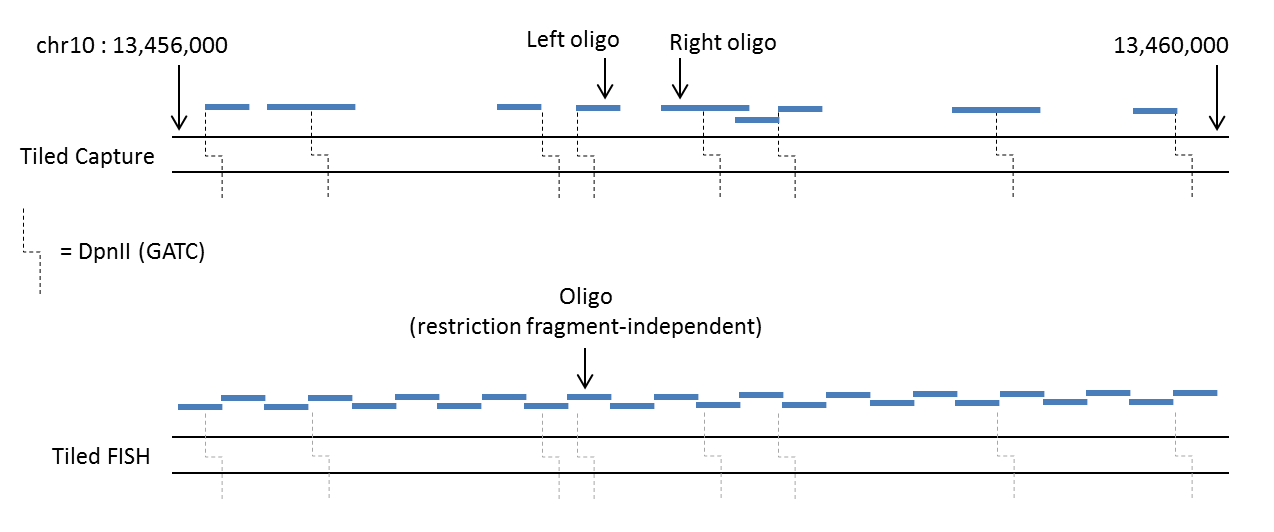
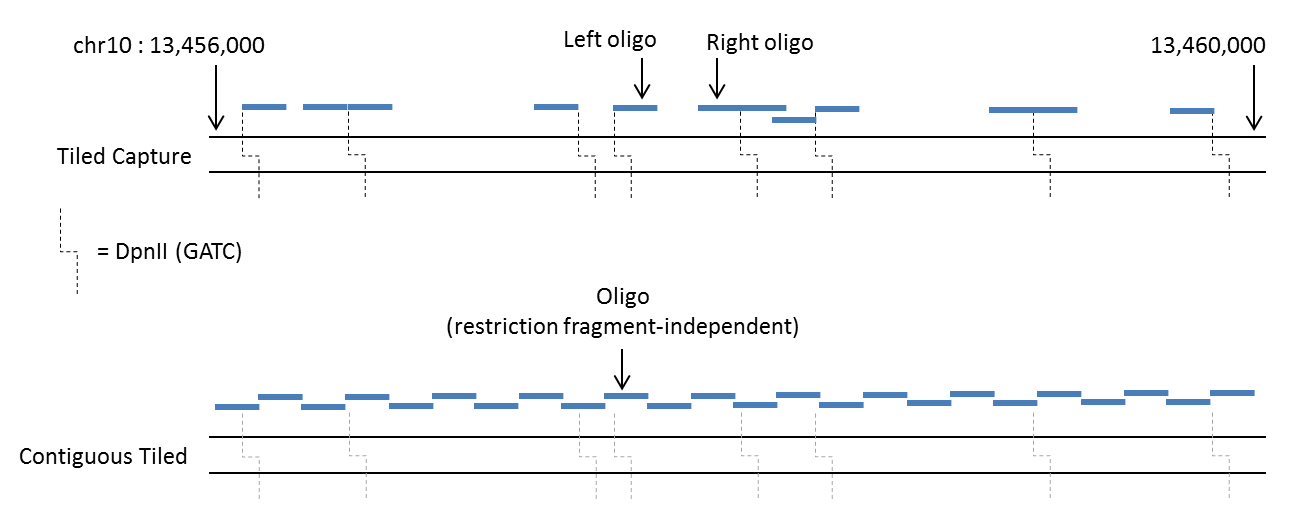
renamed FISH option to Contig

diff --git a/design.py b/design.py
@@ -463,7 +463,7 @@ class Tiled(Tools):
         
         return self
     
-    def gen_oligos_fish(self, chrom, region='', step=70, oligo=70):
+    def gen_oligos_contig(self, chrom, region='', step=70, oligo=70):
         """Designs adjacent oligos based on a user-defined step size,
         across a specified region of a chromosome, or for the entire
         chromosome.
@@ -615,7 +615,7 @@ if __name__ == '__main__':
                                 ', '.join(class_tup)
                             ))
     except IndexError:
-        raise IndexError('oligo.py must be followed by one of the following '
+        raise IndexError('design.py must be followed by one of the following '
                          'class names: {}'.format(', '.join(class_tup)))
     parser = argparse.ArgumentParser()
     
@@ -670,9 +670,9 @@ if __name__ == '__main__':
             required = False,
         )
         parser.add_argument(
-            '--fish',
+            '--contig',
             action = 'store_true',
-            help = 'Run in FISH mode (restriciton enzyme independent).',
+            help = 'Run in contiguous mode (restriciton enzyme independent).',
             required = False,
         )
         parser.add_argument(
@@ -681,7 +681,7 @@ if __name__ == '__main__':
             type = str,
             choices = ['DpnII', 'NlaIII', 'HindIII'],
             help = 'Name of restriction enzyme, default=DpnII. Omit this ' \
-                   'option if running in FISH mode (--fish)',
+                   'option if running in contiguous mode (--contig)',
             default = 'DpnII',
             required = False,
         )
@@ -690,8 +690,8 @@ if __name__ == '__main__':
             '--step_size',
             type = int,
             help = 'Step size (in bp) between adjacent oligos when running ' \
-                   'in FISH mode (--fish), default=70. Omit this option if ' \
-                   'you are not using the --fish flag',
+                   'in contiguous mode (--contig), default=70. Omit this option if ' \
+                   'you are not using the --contig flag',
             default = 70,
             required = False,
         )
@@ -765,8 +765,8 @@ if __name__ == '__main__':
         )
     elif class_arg == 'Tiled':
         c = Tiled(genome=args.genome, fa=args.fasta, blat=args.blat)
-        if args.fish:
-            c.gen_oligos_fish(
+        if args.contig:
+            c.gen_oligos_contig(
                 chrom = args.chr,
                 region = args.region,
                 step = args.step_size,

diff --git a/docs/tiled.rst b/docs/tiled.rst
@@ -9,16 +9,16 @@ Tiled Capture
 Description
 ===========
 
-The image below shows a schematic of how `Tiled` designs oligos when run in either the default mode (top) or FISH mode (bottom). In the top panel the user has run `Tiled` supplying the region chr10:13456000-13460000 and the restriction enzyme
-DpnII. In the bottom panel the same coordinates have been used but with the :option:`--fish` flag, and the step size set to equal the oligo length, thereby generating end-to-end oligos. For Tiled FISH, the design is completely independent of
+The image below shows a schematic of how `Tiled` designs oligos when run in either the default mode (top) or contiguous mode (bottom). In the top panel the user has run `Tiled` supplying the region chr10:13456000-13460000 and the restriction enzyme
+DpnII. In the bottom panel the same coordinates have been used but with the :option:`--contig` flag, and the step size set to equal the oligo length, thereby generating end-to-end oligos. For contiguous Tiled, the design is completely independent of
 any restriction enzyme recognition sequences, however the DpnII sites have been left on the image for consistency.
 
 .. figure:: _static/tiled.png
 
-    Schematic of oligo design by `Tiled`, in default (top) and FISH (bottom) modes
+    Schematic of oligo design by `Tiled`, in default (top) and contiguous (bottom) modes
     
 It is possible for the Tiled Capture oligos to overlap, up to within 1bp of each other, when the restriction fragment is less than twice the length of the oligo. If the specified region consists of a fragment with length less than the specified oligo length, no oligos will be generated for that fragment.
-If the fragment length exactly equals the oligo length, only one oligo will be generated. Similarly, in Tiled FISH, oligos can be designed such that they overlap up to within 1bp of each other; in this case, the step size would be set to 1.
+If the fragment length exactly equals the oligo length, only one oligo will be generated. Similarly, in contiguous Tiled, oligos can be designed such that they overlap up to within 1bp of each other; in this case, the step size would be set to 1.
 
 .. note::
     
@@ -33,9 +33,9 @@ When run from the command line, `design.py Tiled` takes the following parameters
     
     (flag) Show this help message and exit
     
-.. option:: --fish
+.. option:: --contig
 
-    (flag) Run the pipeline in :ref:`FISH mode <fish>`
+    (flag) Run the pipeline in :ref:`contiguous mode <contig>`
     
 .. option:: -f <reference fasta>, --fasta <reference fasta>
     
@@ -59,7 +59,7 @@ When run from the command line, `design.py Tiled` takes the following parameters
 .. option:: -e <enzyme>, --enzyme <enzyme>
 
     ({DpnII, NlaIII, HindIII}, optional) Name of the :ref:`restriction enzyme <enzyme>` to be used
-    for fragment digestion, default=DpnII; omit this option if running in FISH mode (:option:`--fish`)
+    for fragment digestion, default=DpnII; omit this option if running in contiguous mode (:option:`--contig`)
     
 .. option:: -o <oligo length>, --oligo <oligo length>
 
@@ -68,8 +68,8 @@ When run from the command line, `design.py Tiled` takes the following parameters
 .. option:: -t <step size>, --step_size <step size>
 
     (int, optional) The number of base-pairs between the start coordinates of adjacent oligos (:ref:`see below <step>`), when running in
-    FISH mode (:option:`--fish`), default=70; omit this option if you are not using
-    the :option:`--fish` flag
+    contiguous mode (:option:`--contig`), default=70; omit this option if you are not using
+    the :option:`--contig` flag
     
 .. option:: -s <STAR index>, --star_index <STAR index>
 
@@ -92,21 +92,21 @@ Below are examples using the `Tiled` pipeline for different scenarios
 .. code-block:: bash
     :caption: 50bp oligos across the region 10,150,000 to 10,200,000 on chromosome X of mm9, with adjacent oligos separated by a gap of 10bp, using BLAT to check off-target binding
 
-    $ python design.py Tiled --fish -f ~/mm9/Sequence/genome.fa -g mm9 -c X -r 10150000-10200000 -o 50 -t 60 --blat
+    $ python design.py Tiled --contig -f ~/mm9/Sequence/genome.fa -g mm9 -c X -r 10150000-10200000 -o 50 -t 60 --blat
     
 Specifics
 ---------
 
-.. _fish:
+.. _contig:
 
-**FISH** (:option:`--fish`)
-    Running the pipeline in FISH mode no longer restricts oligo design to Capture-C specification and hence the oligos are designed independently of any restriction fragment or recognition sequence. Instead, the user defines a :ref:`step size <step>` (:option:`-t`, :option:`--step_size`)
+**Contiguous mode** (:option:`--contig`)
+    Running the pipeline in contiguous mode no longer restricts oligo design to Capture-C specification and hence the oligos are designed independently of any restriction fragment or recognition sequence. Instead, the user defines a :ref:`step size <step>` (:option:`-t`, :option:`--step_size`)
     to design oligos within close proximity to each other, across a specified region (:option:`-r`, :option:`--region`) or entire chromosome
    
 .. _enzyme:
 
 **Restriction enzyme** (:option:`-e`, :option:`--enzyme`)
-    The restriction enzyme being used in the Tiled Capture experiment (if not running in FISH mode). This determines the recogition sequence used to define the fragment boundaries and hence the starts and ends of the oligos. The current version supports `DpnII` (GATC), `NlaIII` (CATG) and `HindIII` (AAGCTT).
+    The restriction enzyme being used in the Tiled Capture experiment (if not running in contiguous mode). This determines the recogition sequence used to define the fragment boundaries and hence the starts and ends of the oligos. The current version supports `DpnII` (GATC), `NlaIII` (CATG) and `HindIII` (AAGCTT).
     If this option is omitted, `DpnII` will be used by default.
     
 .. _step:

diff --git a/README.rst b/README.rst
@@ -1,10 +1,10 @@
 Capture Oligo Design
 ====================
 
-The *design.py* module consists of three classes for Capture-C and FISH oligo design.
+The *design.py* module consists of three classes for Capture-C oligo design.
 
 * `Capture <http://oligo.rtfd.io/en/latest/capture.html>`_: designs oligos for a standard Capture-C experiment. The user supplies a list of viewpoint coordinates, and oligos are generated adjacent to the flanking recognition sequence of a specified restriction enzyme.
-* `Tiled <http://oligo.rtfd.io/en/latest/tiled.html>`_: designs oligos for multiple adjacent restriction fragments across a specified region of a chromosome, or for the entire chromosome. If *Tiled* is run in FISH mode, oligos are generated independent of restriction fragments and
+* `Tiled <http://oligo.rtfd.io/en/latest/tiled.html>`_: designs oligos for multiple adjacent restriction fragments across a specified region of a chromosome, or for the entire chromosome. If *Tiled* is run in contiguous mode, oligos are generated independent of restriction fragments and
   are instead generated for a user-specified step size, in an adjacent manner.
 * `OffTarget <http://oligo.rtfd.io/en/latest/off_target.html>`_: designs oligos to capture DNA surrounding potential CRISPR off-target cut sites to allow for efficient sequencing to determine off-target activity.
 

diff --git a/docs/overview.rst b/docs/overview.rst
@@ -53,7 +53,7 @@ Missing Values
 Due to particular differences between the three pipelines, and in order to keep a consistent output format between the three, there are instances where some values in the file will be purposefully missing.
 
 **fragment_start, fragment_stop, side_of_fragment**
-    These values will be replaced with a '.' for the Tiled Capture pipeline when run in FISH mode, and for the CRISPR Off-Target pipeline, as both of these pipelines are restriction fragment-independent
+    These values will be replaced with a '.' for the Tiled Capture pipeline when run in contiguous mode, and for the CRISPR Off-Target pipeline, as both of these pipelines are restriction fragment-independent
 **associations**
     This value will be replaced with a '.' for the Tiled Capture pipeline as these oligos are generated for adjacent sites across one large region and not for different viewpoints associated with unique names
 
